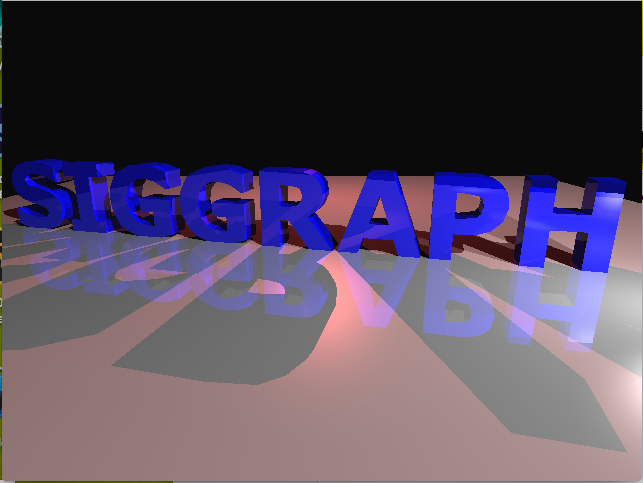
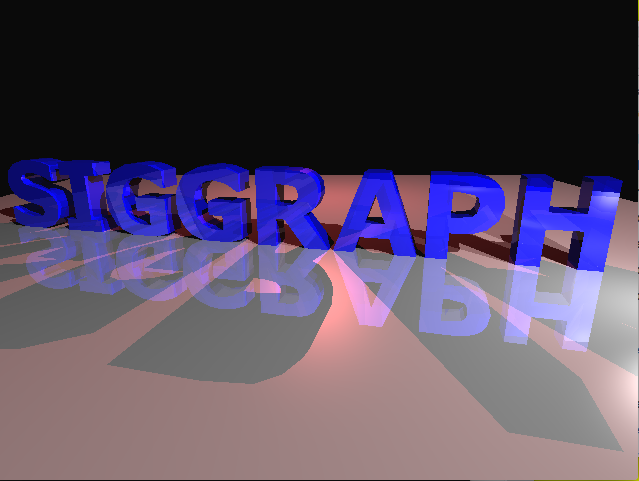
update pictures

diff --git a/hw3-raytracer/raytracer.cpp b/hw3-raytracer/raytracer.cpp
@@ -98,9 +98,10 @@ glm::vec3 trace(const glm::vec3 & ray0, const glm::vec3 & rayD, glm::vec3 camera
     else if(type_intersect ==TRIANGLE)
         normal = interpolateNormal(barycentricCoord, triangles[index_intersect]);
 
-    glm::vec3 l = glm::normalize(glm::vec3(ray0.x-rayD.x, ray0.y-rayD.y, ray0.z-rayD.z));
+    //glm::vec3 l = glm::normalize(glm::vec3(ray0.x-rayD.x, ray0.y-rayD.y, ray0.z-rayD.z));
+    glm::vec3 l = glm::vec3(ray0.x-rayD.x, ray0.y-rayD.y, ray0.z-rayD.z);
 
-    normal = glm::normalize(normal); //Should i do this?
+    //normal = glm::normalize(normal); //Should i do this?
     float lDotN = glm::dot(l, normal);
 
     glm::vec3 r = glm::vec3(-l.x + 2*lDotN*normal.x, -l.y + 2*lDotN*normal.y, -l.z + 2*lDotN*normal.z); // Reflection vector.
@@ -125,17 +126,17 @@ glm::vec3 trace(const glm::vec3 & ray0, const glm::vec3 & rayD, glm::vec3 camera
         upperType = NOTHING;
         lowerType = type_intersect;
     }
-    glm::vec3 t = glm::normalize(transmit(normal, l, upperType, lowerType)); // Get transmitted angle.
+    glm::vec3 t = transmit(normal, l, upperType, lowerType); // Get transmitted angle.
 
     local = localColor(intersection, viewer, type_intersect, index_intersect, lights, numLights, spheres, numSpheres, triangles, numTriangles, barycentricCoord);
     reflected = trace(intersection, r, camera, type_intersect, index_intersect, lights, numLights, spheres, numSpheres, triangles, numTriangles, recurseDepth - 1);
-    //transmitted = trace(intersection, t, camera, type_intersect, index_intersect, lights, numLights, spheres, numSpheres, triangles, numTriangles, recurseDepth - 1);
+    transmitted = trace(intersection, t, camera, type_intersect, index_intersect, lights, numLights, spheres, numSpheres, triangles, numTriangles, recurseDepth - 1);
 
     float discount = .3;
     float t_discount = .3;
     float alpha = 0.5;
-    return glm::vec3(local.x + discount*reflected.x, local.y + discount*reflected.y, local.z + discount*reflected.z);
-    //return glm::vec3(local.x + discount*reflected.x + t_discount*transmitted.x, local.y + discount*reflected.y + t_discount*transmitted.y, local.z + discount*reflected.z + t_discount*transmitted.z);
+    //return glm::vec3(local.x + discount*reflected.x, local.y + discount*reflected.y, local.z + discount*reflected.z);
+    return glm::vec3(local.x + discount*reflected.x + t_discount*transmitted.x, local.y + discount*reflected.y + t_discount*transmitted.y, local.z + discount*reflected.z + t_discount*transmitted.z);
     //return glm::vec3(local.x + t_discount*transmitted.x, local.y + t_discount*transmitted.y, local.z + t_discount*transmitted.z);
 
 
@@ -155,7 +156,7 @@ glm::vec3 transmit(const glm::vec3 & normal, const glm::vec3 & l, int upperType,
     }
     if (lowerType == SPHERE) {
         nt = 1.33; // Water.
-    } else if (upperType == TRIANGLE) {
+    } else if (lowerType == TRIANGLE) {
         nt = 1.49;
     }
     float n = nt/nl;
